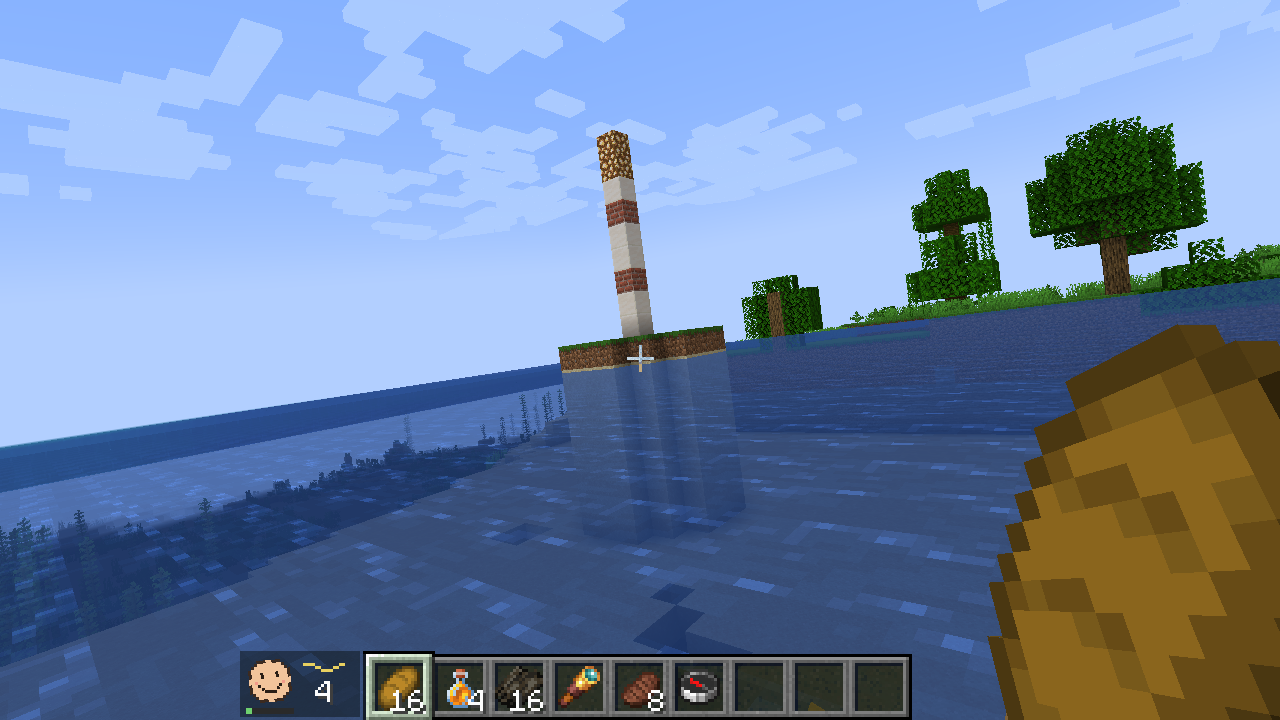
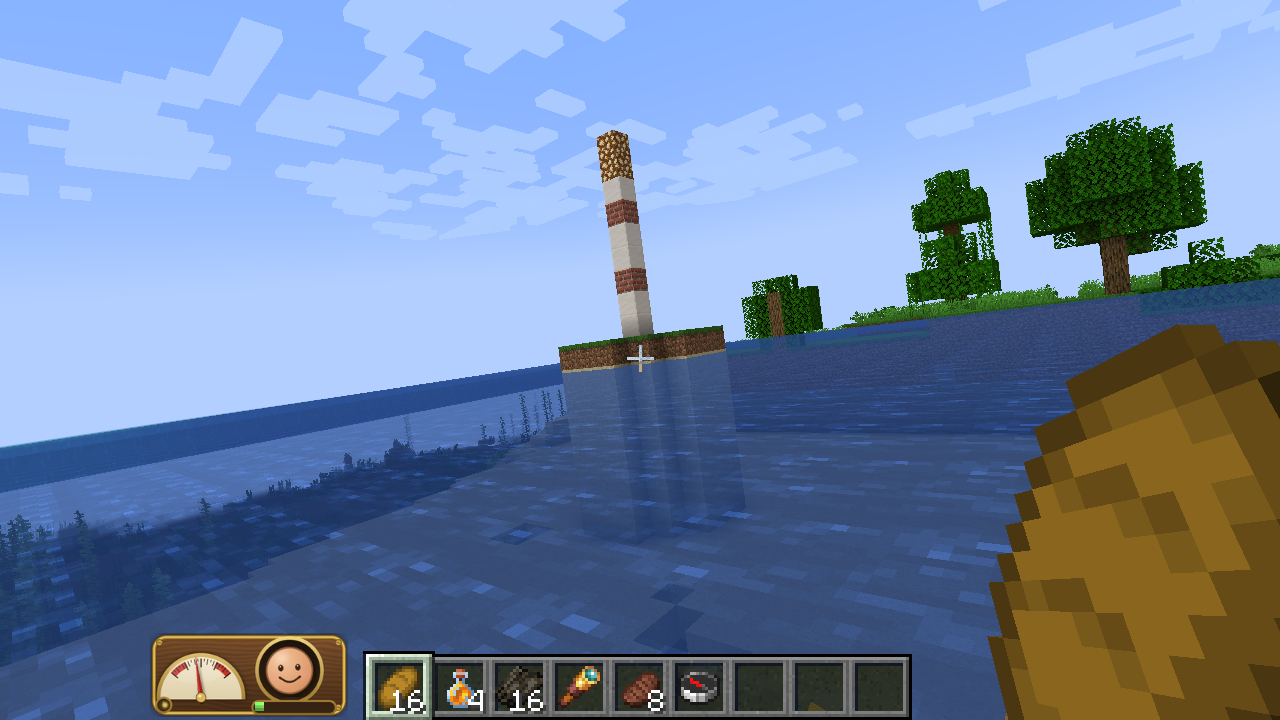
README et fiche CurseForge : nouveaux graphismes et captures 1.1.0
Claude-Session: https://claude.ai/code/session_0174dF8GysDQMyC18gNN9dy1

diff --git a/curseforge/description.md b/curseforge/description.md
@@ -20,6 +20,8 @@ Look at the horizon. Take the helm. Eat something plain. Or lean over the side.
 
 **100% client-side**: works in singleplayer and on any server, even vanilla ones. Nothing changes for other players.
 
+Next to your hotbar sits a **ship's instrument** of varnished wood and brass: a **clinometer** whose needle follows your boat's real roll, a sea-state lamp, your sailor's face and a sickness gauge.
+
 ### 🌬 A sea worth sailing
 - **Wind** follows the weather — a shifting breeze when clear, fresh wind in the rain, a gale in thunderstorms — and slowly turns.
 - **Waves** grow with the wind (Pierson–Moskowitz), but only over enough **open water upwind**: a lake stays flat, the open ocean builds up. They **break over shallows**, die down in rivers, swamps and under **sea ice**, and vanish **under a roof**.
@@ -36,7 +38,7 @@ Motion sickness comes from a conflict between your **inner ear** and your **eyes
 **What hurts:** **reading** at sea — inventory, chests, chat, signs (+50%), a **book** (+90%), a **map** (+60%) · the **spyglass** (+120%) · staring at your **feet** (+35%) · being a **passenger** (+25%) · **heavy**, **raw** or **spoiled** food, **milk** · an **empty stomach** · **darkness** with no horizon · **Nausea**.
 
 ### Five stages
-😊 **Fine** → 😐 **Uneasy** (yawns, heavy eyelids) → 🤢 **Queasy** (pale, mouth watering, cold sweat) → 🤮 **Sick** (dark edges, churning stomach, trembling hands, slipping oars) → 😵 **About to be sick**.
+😊 **Fine** → 😐 **Uneasy** (yawns, heavy eyelids) → 🤢 **Queasy** (a yellow-green haze drifts across your eyes, mouth watering) → 🤮 **Sick** (edges darkening with the swell, cold-sweat droplets, churning stomach, trembling hands, slipping oars) → 😵 **About to be sick**.
 
 ![Queasy](https://raw.githubusercontent.com/Loup0007A/seasick-mod/main/curseforge/screenshots/04_queasy.png)
 
@@ -51,9 +53,13 @@ Two heaves warn you: **lean over the side** (turn sideways and look down). Over 
 - **Camels**, the ships of the desert, rock you too.
 
 ### 📓 Ship's log (`O`)
-Sea state, waves, wind and open water; how you feel and **everything affecting you right now, with its exact effect**; a **forecast** ("if nothing changes: sick in 1:20"); and your memories at sea. Careful: reading it at sea counts as reading.
+A parchment book with a little **animated painted scene** of the swell, your boat and the wind. Sea state, waves, wind and open water; how you feel and **everything affecting you right now, with its exact effect**; a **forecast** ("if nothing changes: sick in 1:20"); and your memories at sea. Careful: reading it at sea counts as reading.
 
 ![Ship's log](https://raw.githubusercontent.com/Loup0007A/seasick-mod/main/curseforge/screenshots/06_logbook.png)
+
+Turn the page for your **sea legs ranks**, your memories at sea and the **ship's doctor's advice**.
+
+![Sea legs](https://raw.githubusercontent.com/Loup0007A/seasick-mod/main/curseforge/screenshots/06b_logbook_sea_legs.png)
 
 ### ⚙ Comfort & configuration
 This mod moves the picture **on purpose**. If you get motion sick in real life, turn on `reduceMotion` (still camera — the sea is shown by the artificial horizon and the gauge) or lower `motionScale`.

diff --git a/README.md b/README.md
@@ -8,6 +8,8 @@ La mer est **simulée** à partir du vent, de la météo, de l'eau libre au vent
 
 **Mod 100 % client** : il fonctionne en solo et sur n'importe quel serveur, même vanilla. Rien ne change pour les autres joueurs.
 
+À côté de la barre d'action, un **instrument de bord** en bois verni et laiton : un **clinomètre** dont l'aiguille suit le roulis réel du bateau, un voyant pour l'état de la mer, le visage du marin et la jauge de malaise.
+
 ![Mer agitée](curseforge/screenshots/02_moderate_roll.png)
 
 ## 📦 Installation
@@ -52,8 +54,8 @@ Le mal des transports vient d'un **conflit entre l'oreille interne et les yeux**
 |---|---|
 | 😊 En forme | Rien. |
 | 😐 Barbouillé | On bâille, les paupières tombent (somnolence du mal des transports). |
-| 🤢 Nauséeux | Teint pâle, on salive, sueurs froides. |
-| 🤮 Malade | Sueurs froides sur les bords de l'écran, l'estomac gargouille, les mains tremblent, les rames glissent. |
+| 🤢 Nauséeux | Une brume jaune-vert dérive devant les yeux, on salive. |
+| 🤮 Malade | Les bords de l'écran s'assombrissent au rythme de la houle, des gouttes de sueur froide perlent, l'estomac gargouille, les mains tremblent, les rames glissent. |
 | 😵 Au bord du malaise | … |
 
 ![Nauséeux](curseforge/screenshots/04_queasy.png)
@@ -72,9 +74,13 @@ Deux haut-le-cœur vous préviennent : c'est le moment de **vous pencher par-des
 
 ## 📓 Le journal de bord (`O`)
 
-L'état de la mer (Douglas, hauteur, période, allure), le vent (Beaufort, direction), l'eau libre et le fond ; votre malaise et **tout ce qui joue en ce moment, avec son effet** ; une **prévision** (« si rien ne change : malade dans 1:20 ») ; vos souvenirs (temps en mer, distance, traversées, malaises, plus longue traversée sans être malade). Attention : le lire en mer compte comme de la lecture.
+Un livre de parchemin à deux doubles pages (flèches ou ← → pour tourner les pages). La première montre une **petite scène animée** — la houle à l'échelle, votre bateau qui roule, le vent par rapport à votre regard —, l'état de la mer (Douglas, hauteur, période, allure), le vent (Beaufort, direction), l'eau libre et le fond ; votre malaise et **tout ce qui joue en ce moment, avec son effet** ; une **prévision** (« si rien ne change : malade dans 1:20 ») ; vos souvenirs (temps en mer, distance, traversées, malaises, plus longue traversée sans être malade). Attention : le lire en mer compte comme de la lecture.
 
 ![Journal de bord](curseforge/screenshots/06_logbook.png)
+
+La seconde : votre **pied marin** (de Terrien à Loup de mer), vos souvenirs, et les conseils du **médecin de bord**.
+
+![Pied marin et médecin de bord](curseforge/screenshots/06b_logbook_sea_legs.png)
 
 ## ⚙ Réglages et confort
 
